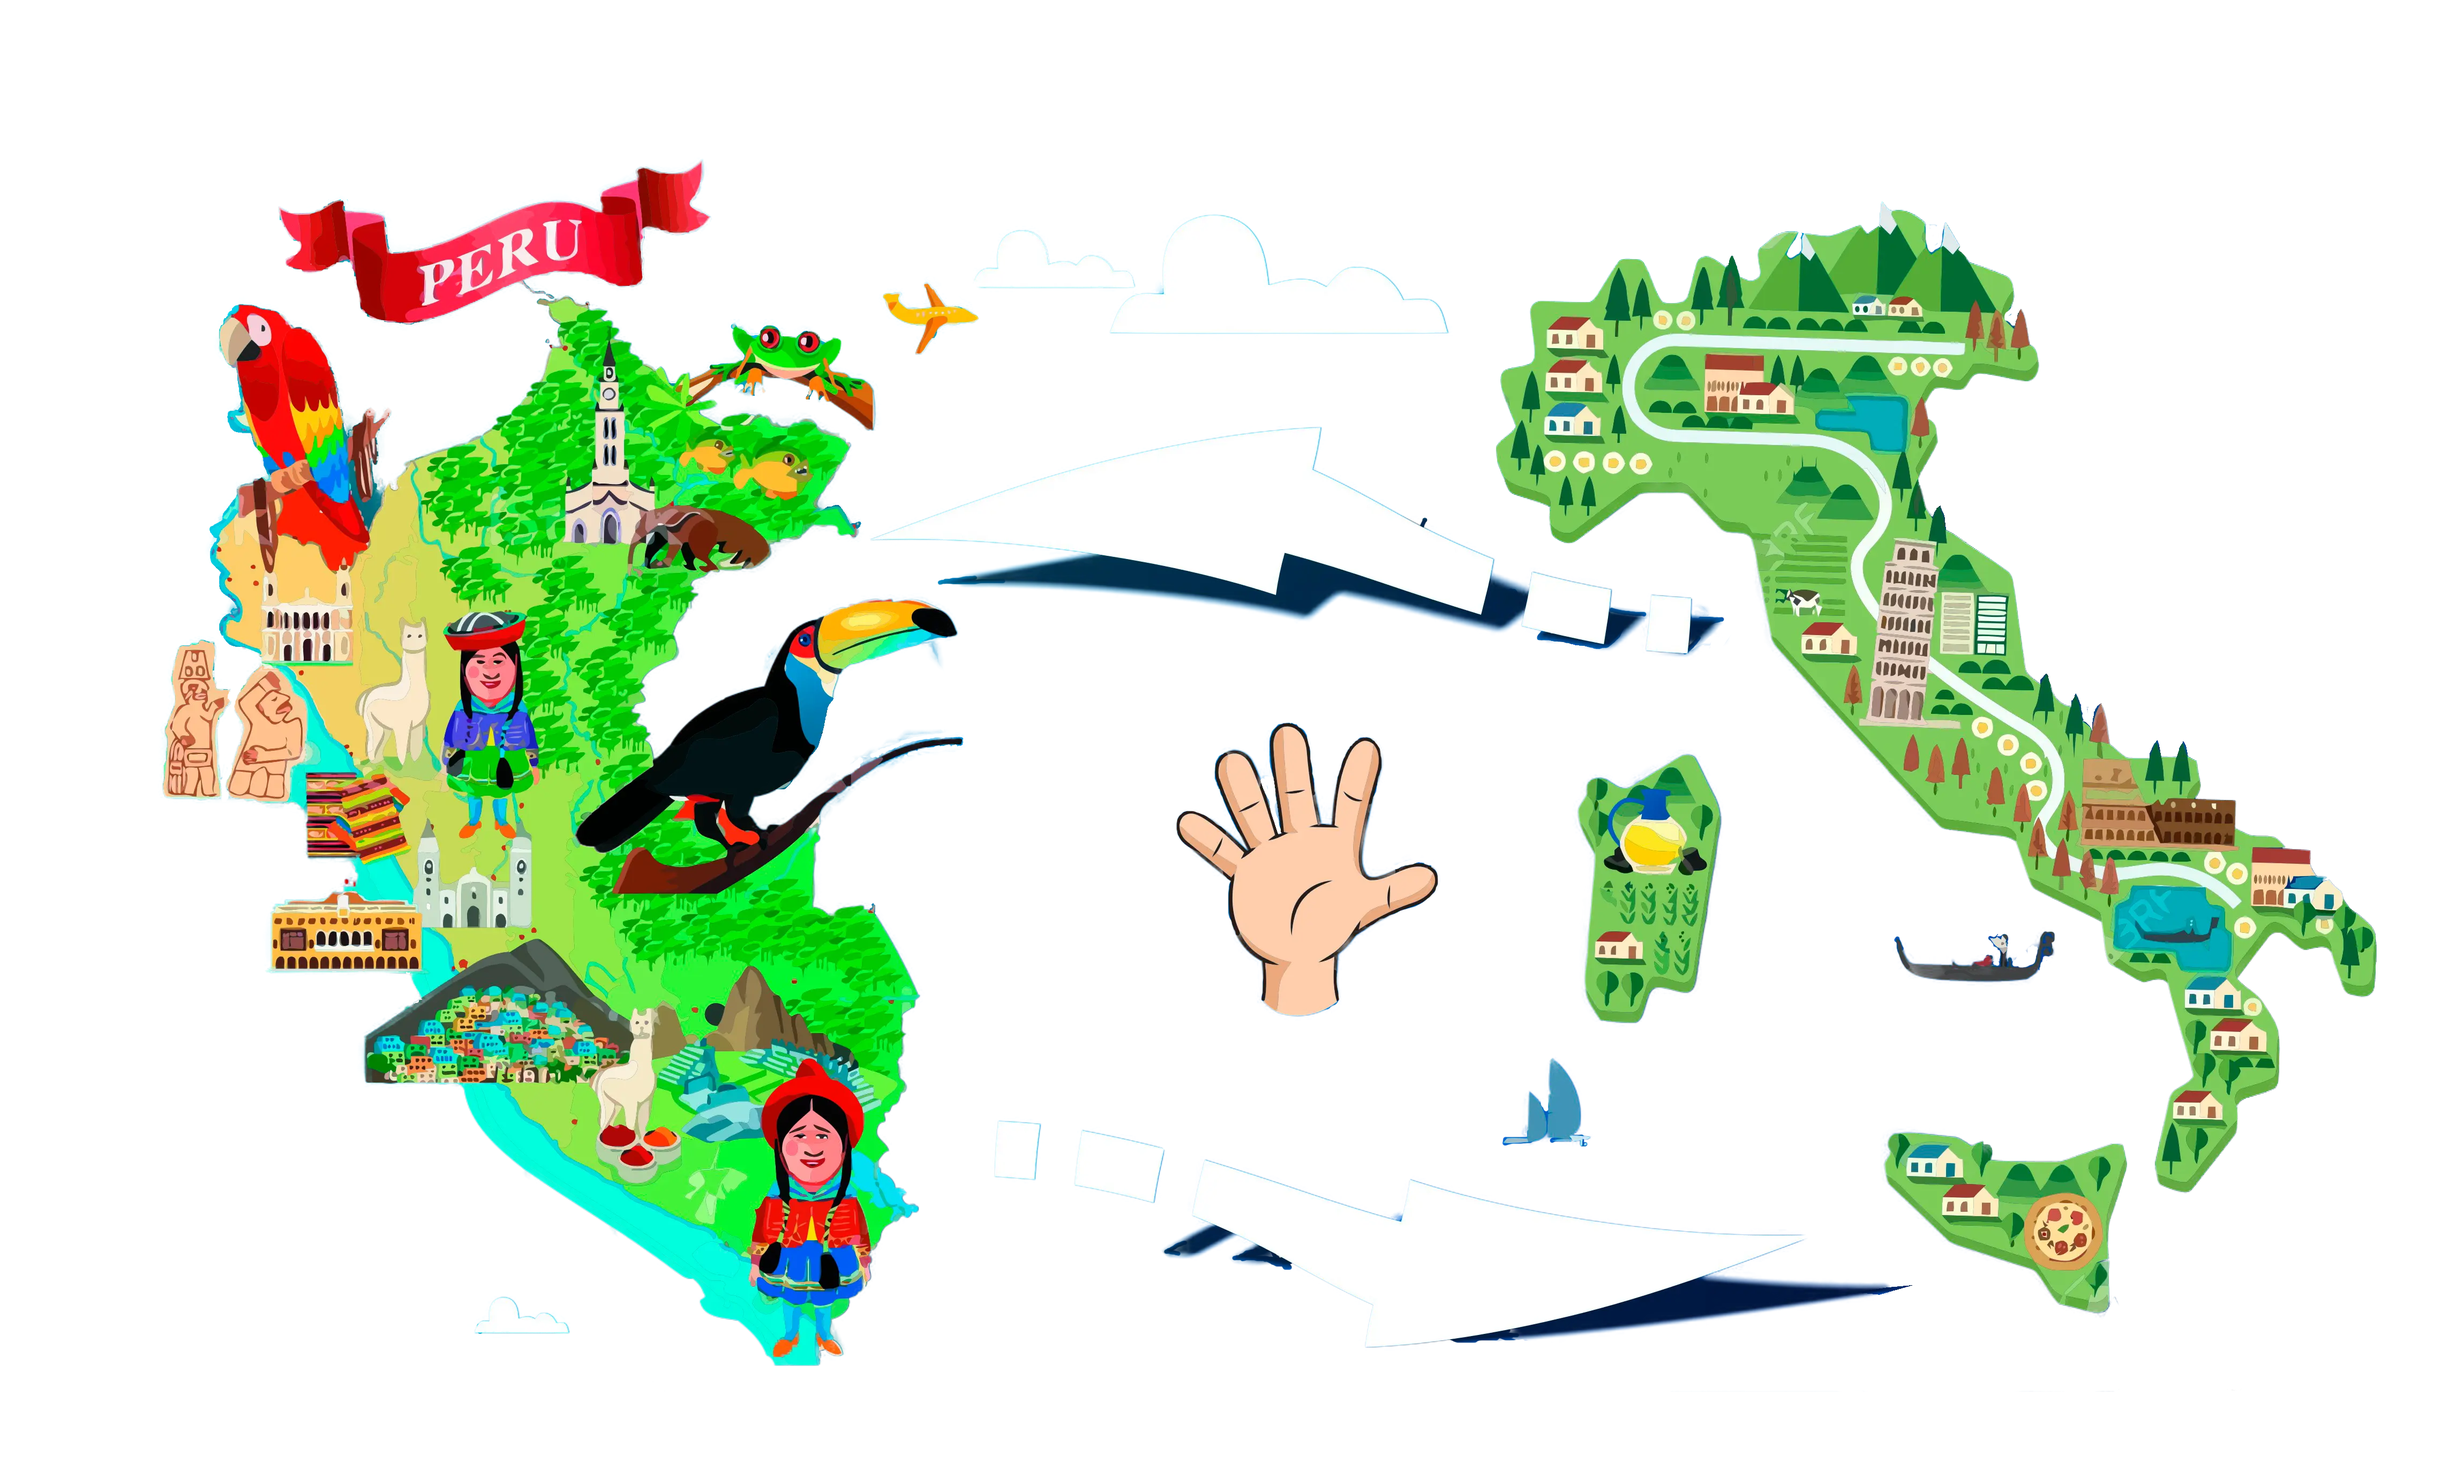
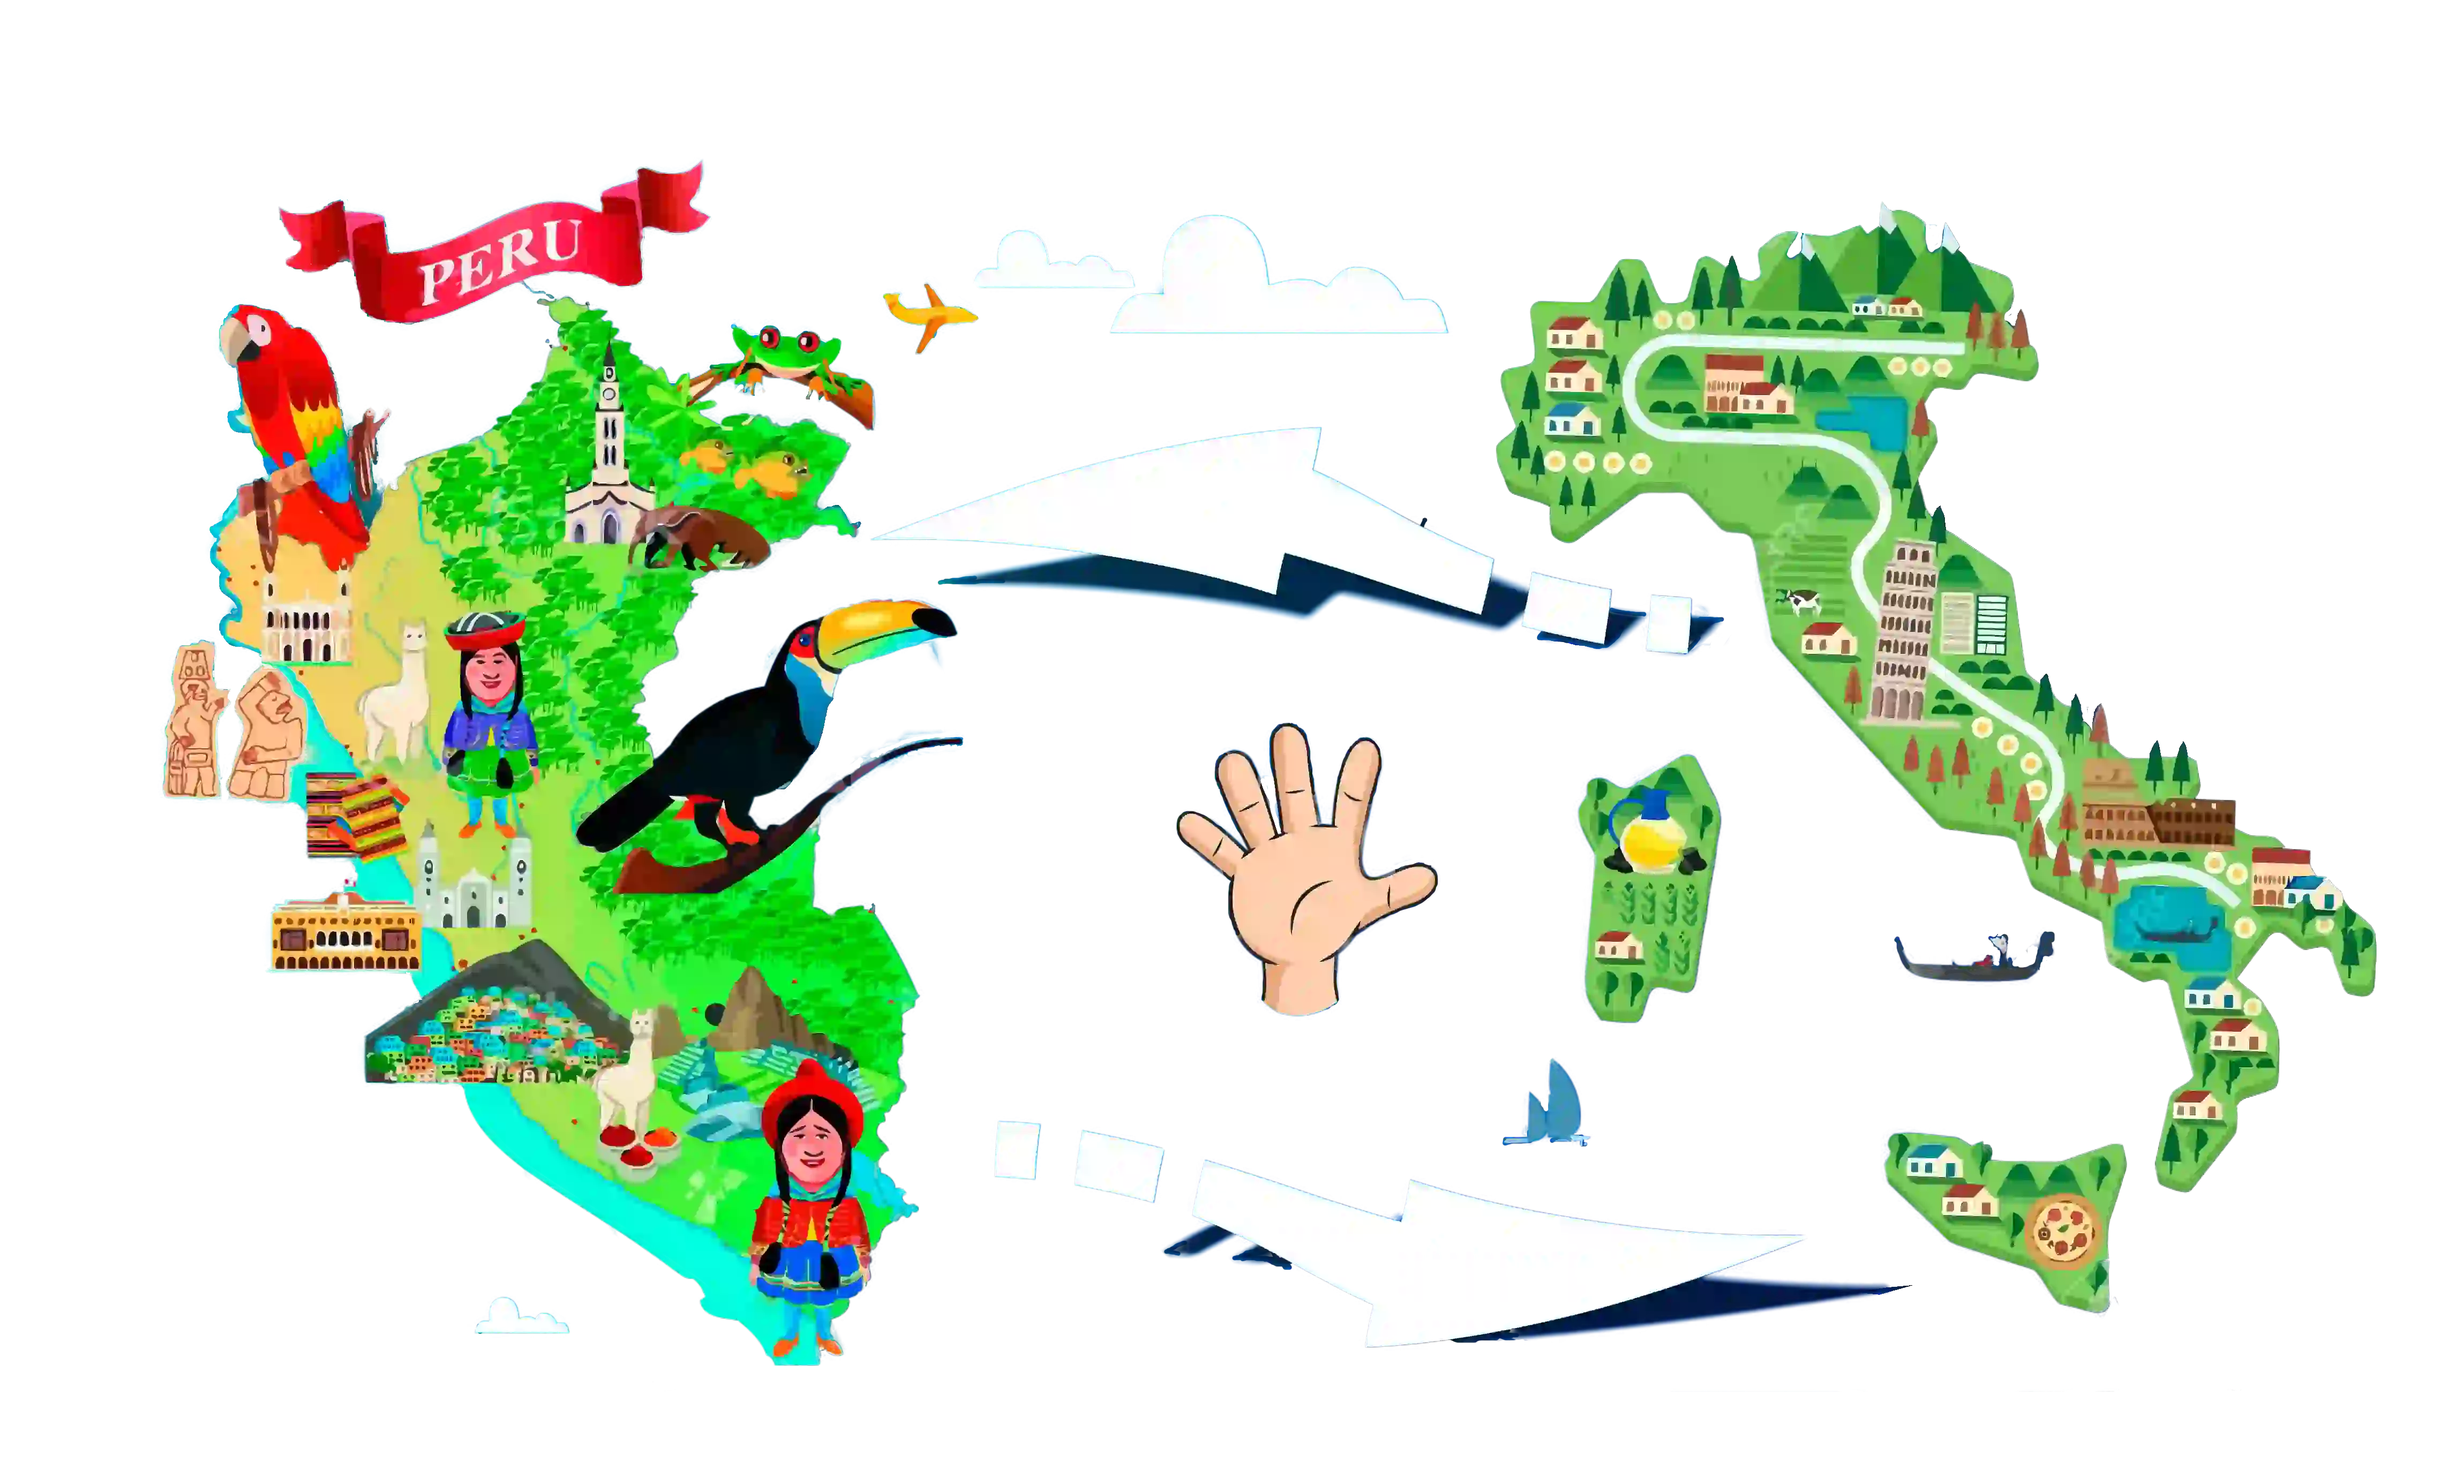
i added optimatized images to the web site

diff --git a/index.html b/index.html
@@ -37,7 +37,7 @@
             </div>
         </nav>
         <nav id="number_1"class="Header-box">
-                <img class="logo-image" src="./assets/Images/logo.png" alt="logo-kinto">
+                <img class="logo-image" src="./assets/Images/logo.webp" alt="logo-kinto">
                 <span class="icon-menu"></span>
                 <div class="container-text-emblem">
                     <h3 class="text-emblem">Pensar-Decidir-Actuar</h3>
@@ -89,7 +89,7 @@
                     <img class="second-icon-red icon-angle" src="./assets/icons/ANGULO-2.png" alt="">
                 </div>
                 <div class="container-img-principal">
-                    <img src="./assets/Images/infograita2-kinto-suyo-logo (1).png" alt="">
+                    <img src="./assets/Images/infograita2-kinto-suyo-logo (1).webp" alt="">
                 </div>
                 <h1>Chi siamo:</h1>
                 <p> Kinto Suyo - Torino è un'associazione cu lturale di volontari, nata nel 2012 per dare continuitá a un progetto avviato precedentemente da un gruppo di esponenti della comunitá peruviana a Torino. É un'associazione aperta a tutti i popoli e si ispira ai principi della solidarietá e reciprocitá fra i popoli, valori condivisi dalla comunitá peruviana.</p>
@@ -113,13 +113,13 @@
                     residente a Torino
                     e i bambini dell'Ande del Perú attraverso iniziative specifiche per il sostegno alla loro crescita ed educazione              
                 <div class="container-img-principal">
-                        <img class="img-division-territorial" src="./assets/Images/Inca_EmpireCOMBINACION.png" alt="">
+                        <img class="img-division-territorial" src="./assets/Images/Inca_EmpireCOMBINACION.webp" alt="">
                 </div>  
                 <div class="container-icons">
                     <img class="first-icon-white icon-angle" src="./assets/icons/angulo-en-blanco.png" alt="">
                     <img class="second-icon-white icon-angle" src="./assets/icons/angulo-en-blanco-derecho.png"></img>
                 </div>
-                   <a href="#number1"> <img class="llama-img" src="./assets/icons/llama.png" alt=""></a>
+                   <a href="#number1"> <img class="llama-img" src="./assets/icons/llama.webp" alt=""></a>
 
             </section>
             <section class="third-section sections">
@@ -130,7 +130,7 @@
 
                 <h1>Come:</h1>
                 <div class="container-img-principal country-italy-peru">
-                    <img src="./assets/Images/peru-italia-caricatura.png" alt="">
+                    <img src="./assets/Images/peru-italia-caricatura.webp" alt="">
                 </div>
                 <p>L'associazione organizza corsi di lingua quechua (lingua del popolo Inka) che hanno l'obiettivo di fare conoscere il modo di vivere e pensare della popolazione andina: tradizione, gastronomia e il rapporto uomo e natura (la pachamama - madre terra).</p>
                 <div class="container-icons">

diff --git a/styles/main.css b/styles/main.css
@@ -13,6 +13,7 @@ html{
     font-family: 'Recursive', sans-seri;
 }
 body{
+    background-repeat: no-repeat;
     background-size: cover;
     background-image: url(../assets/Images/machupichu.webp);
 }
